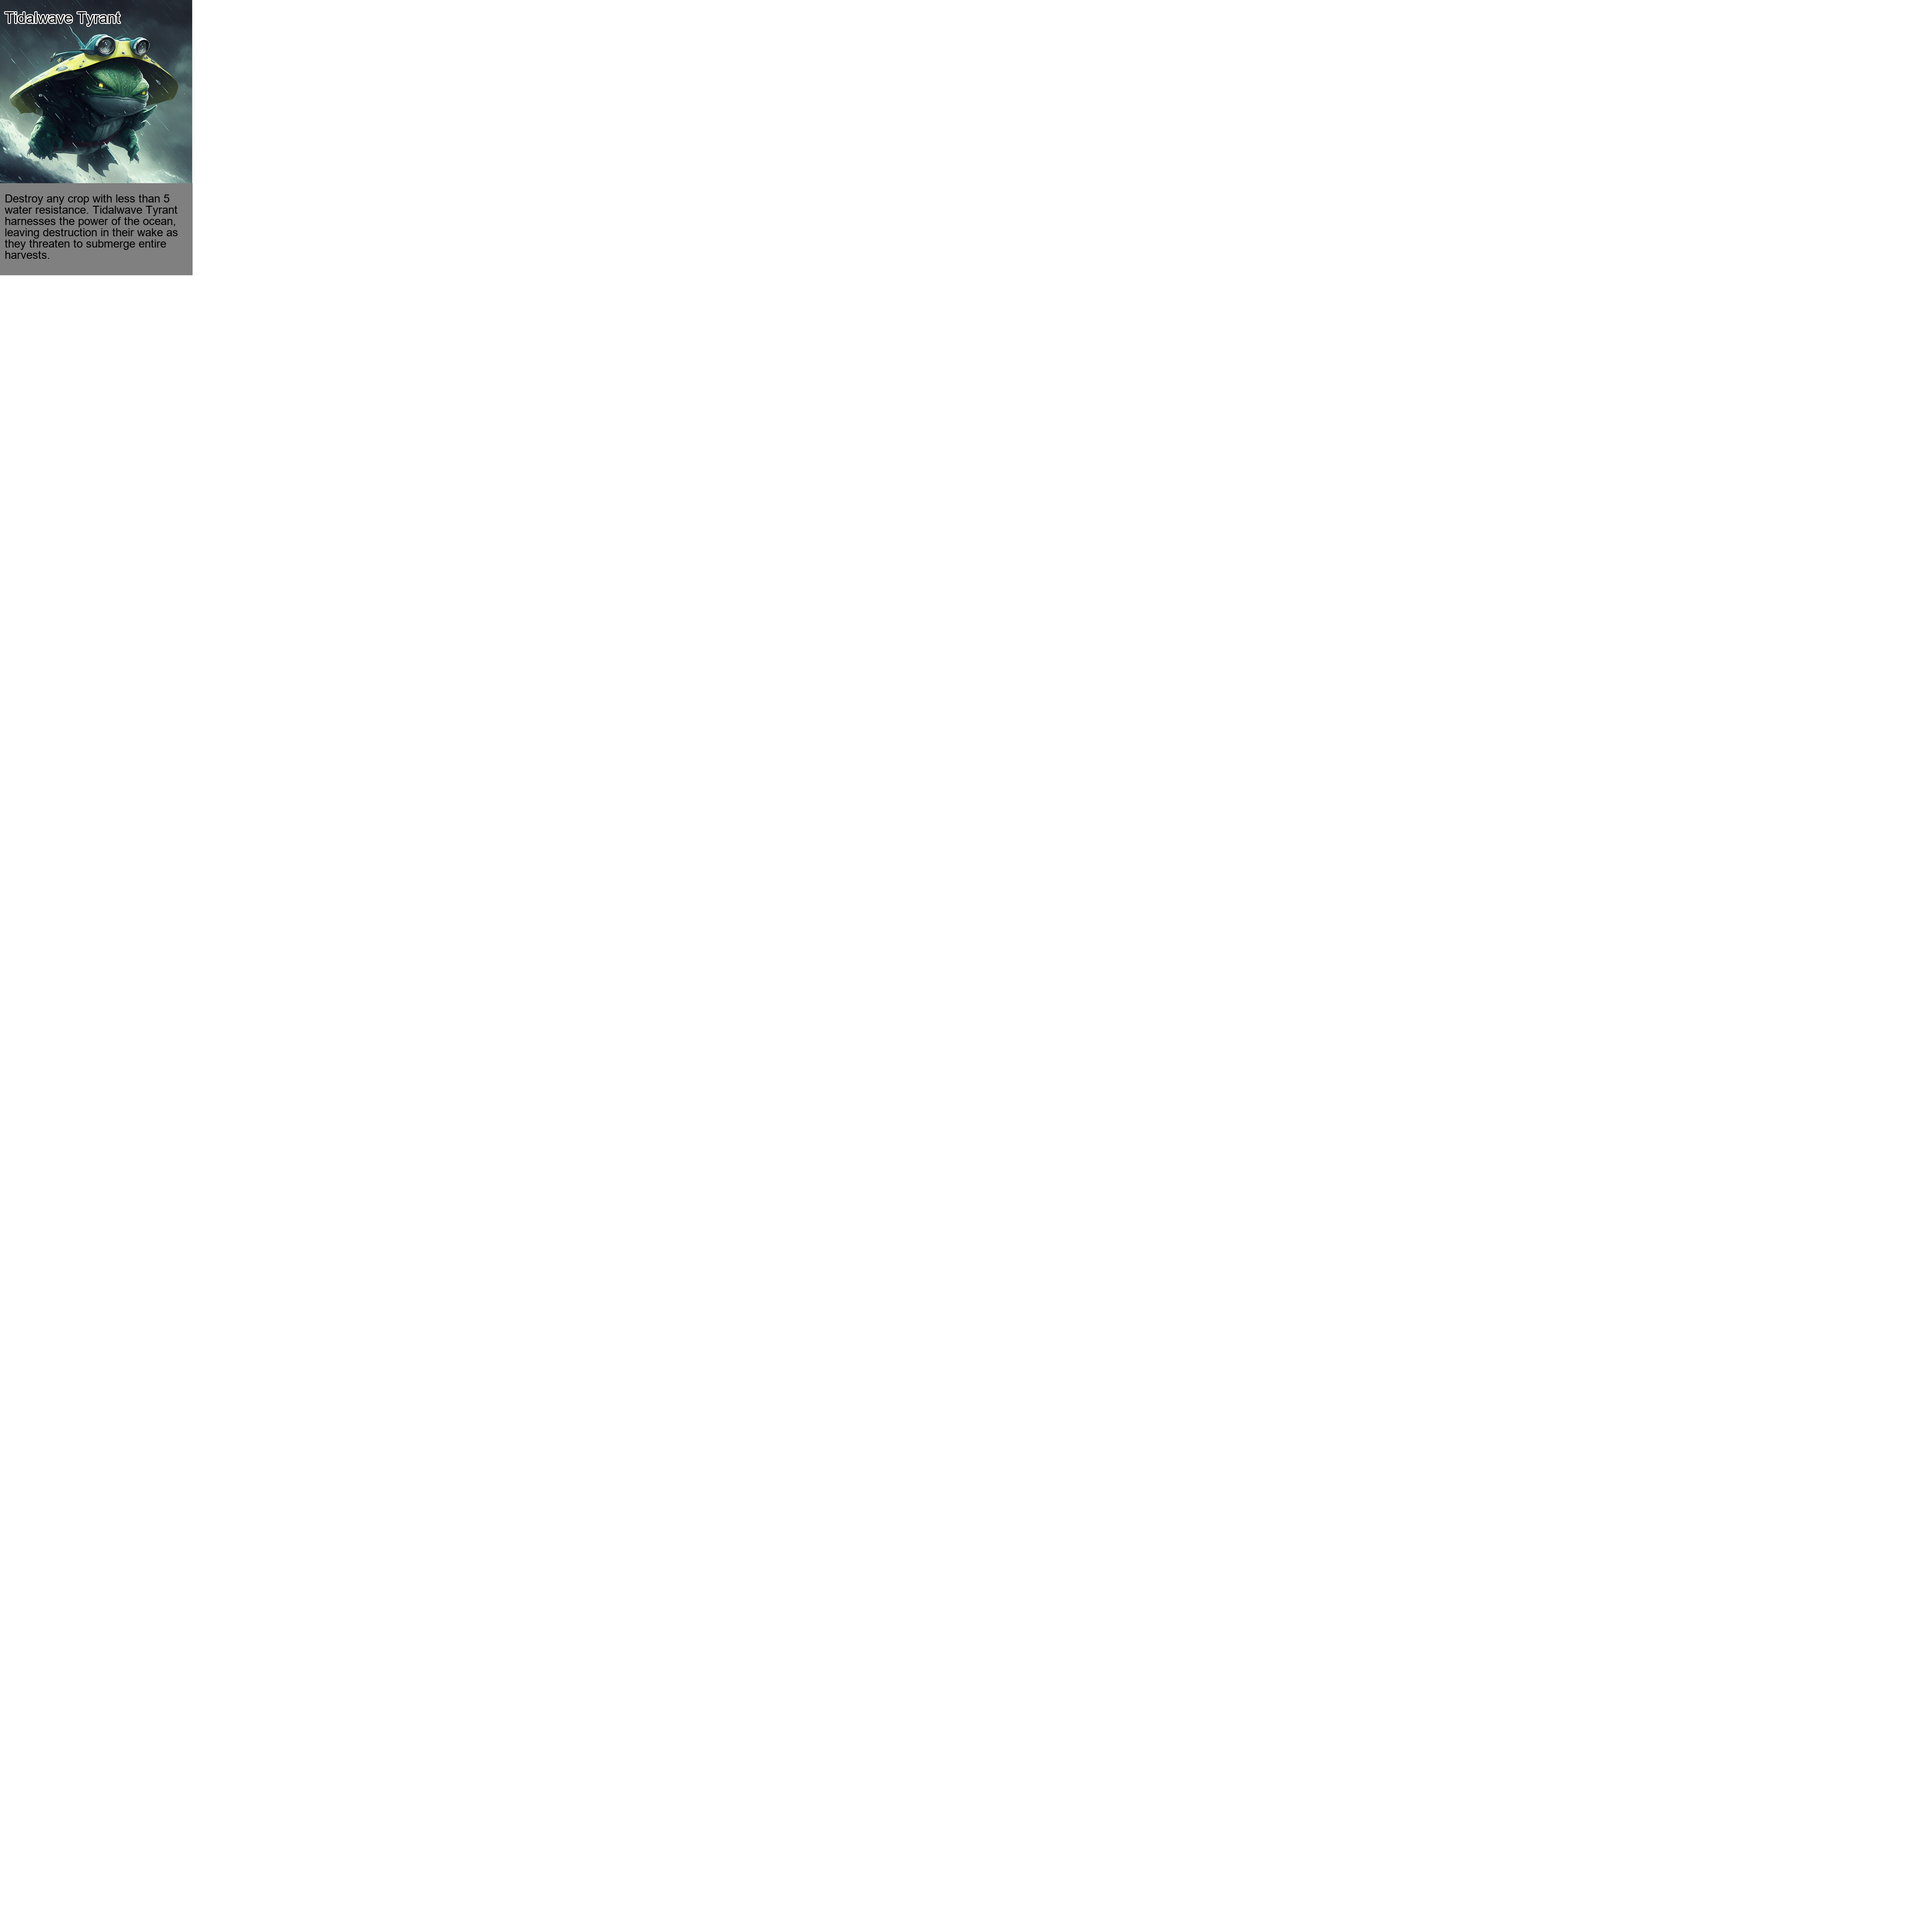
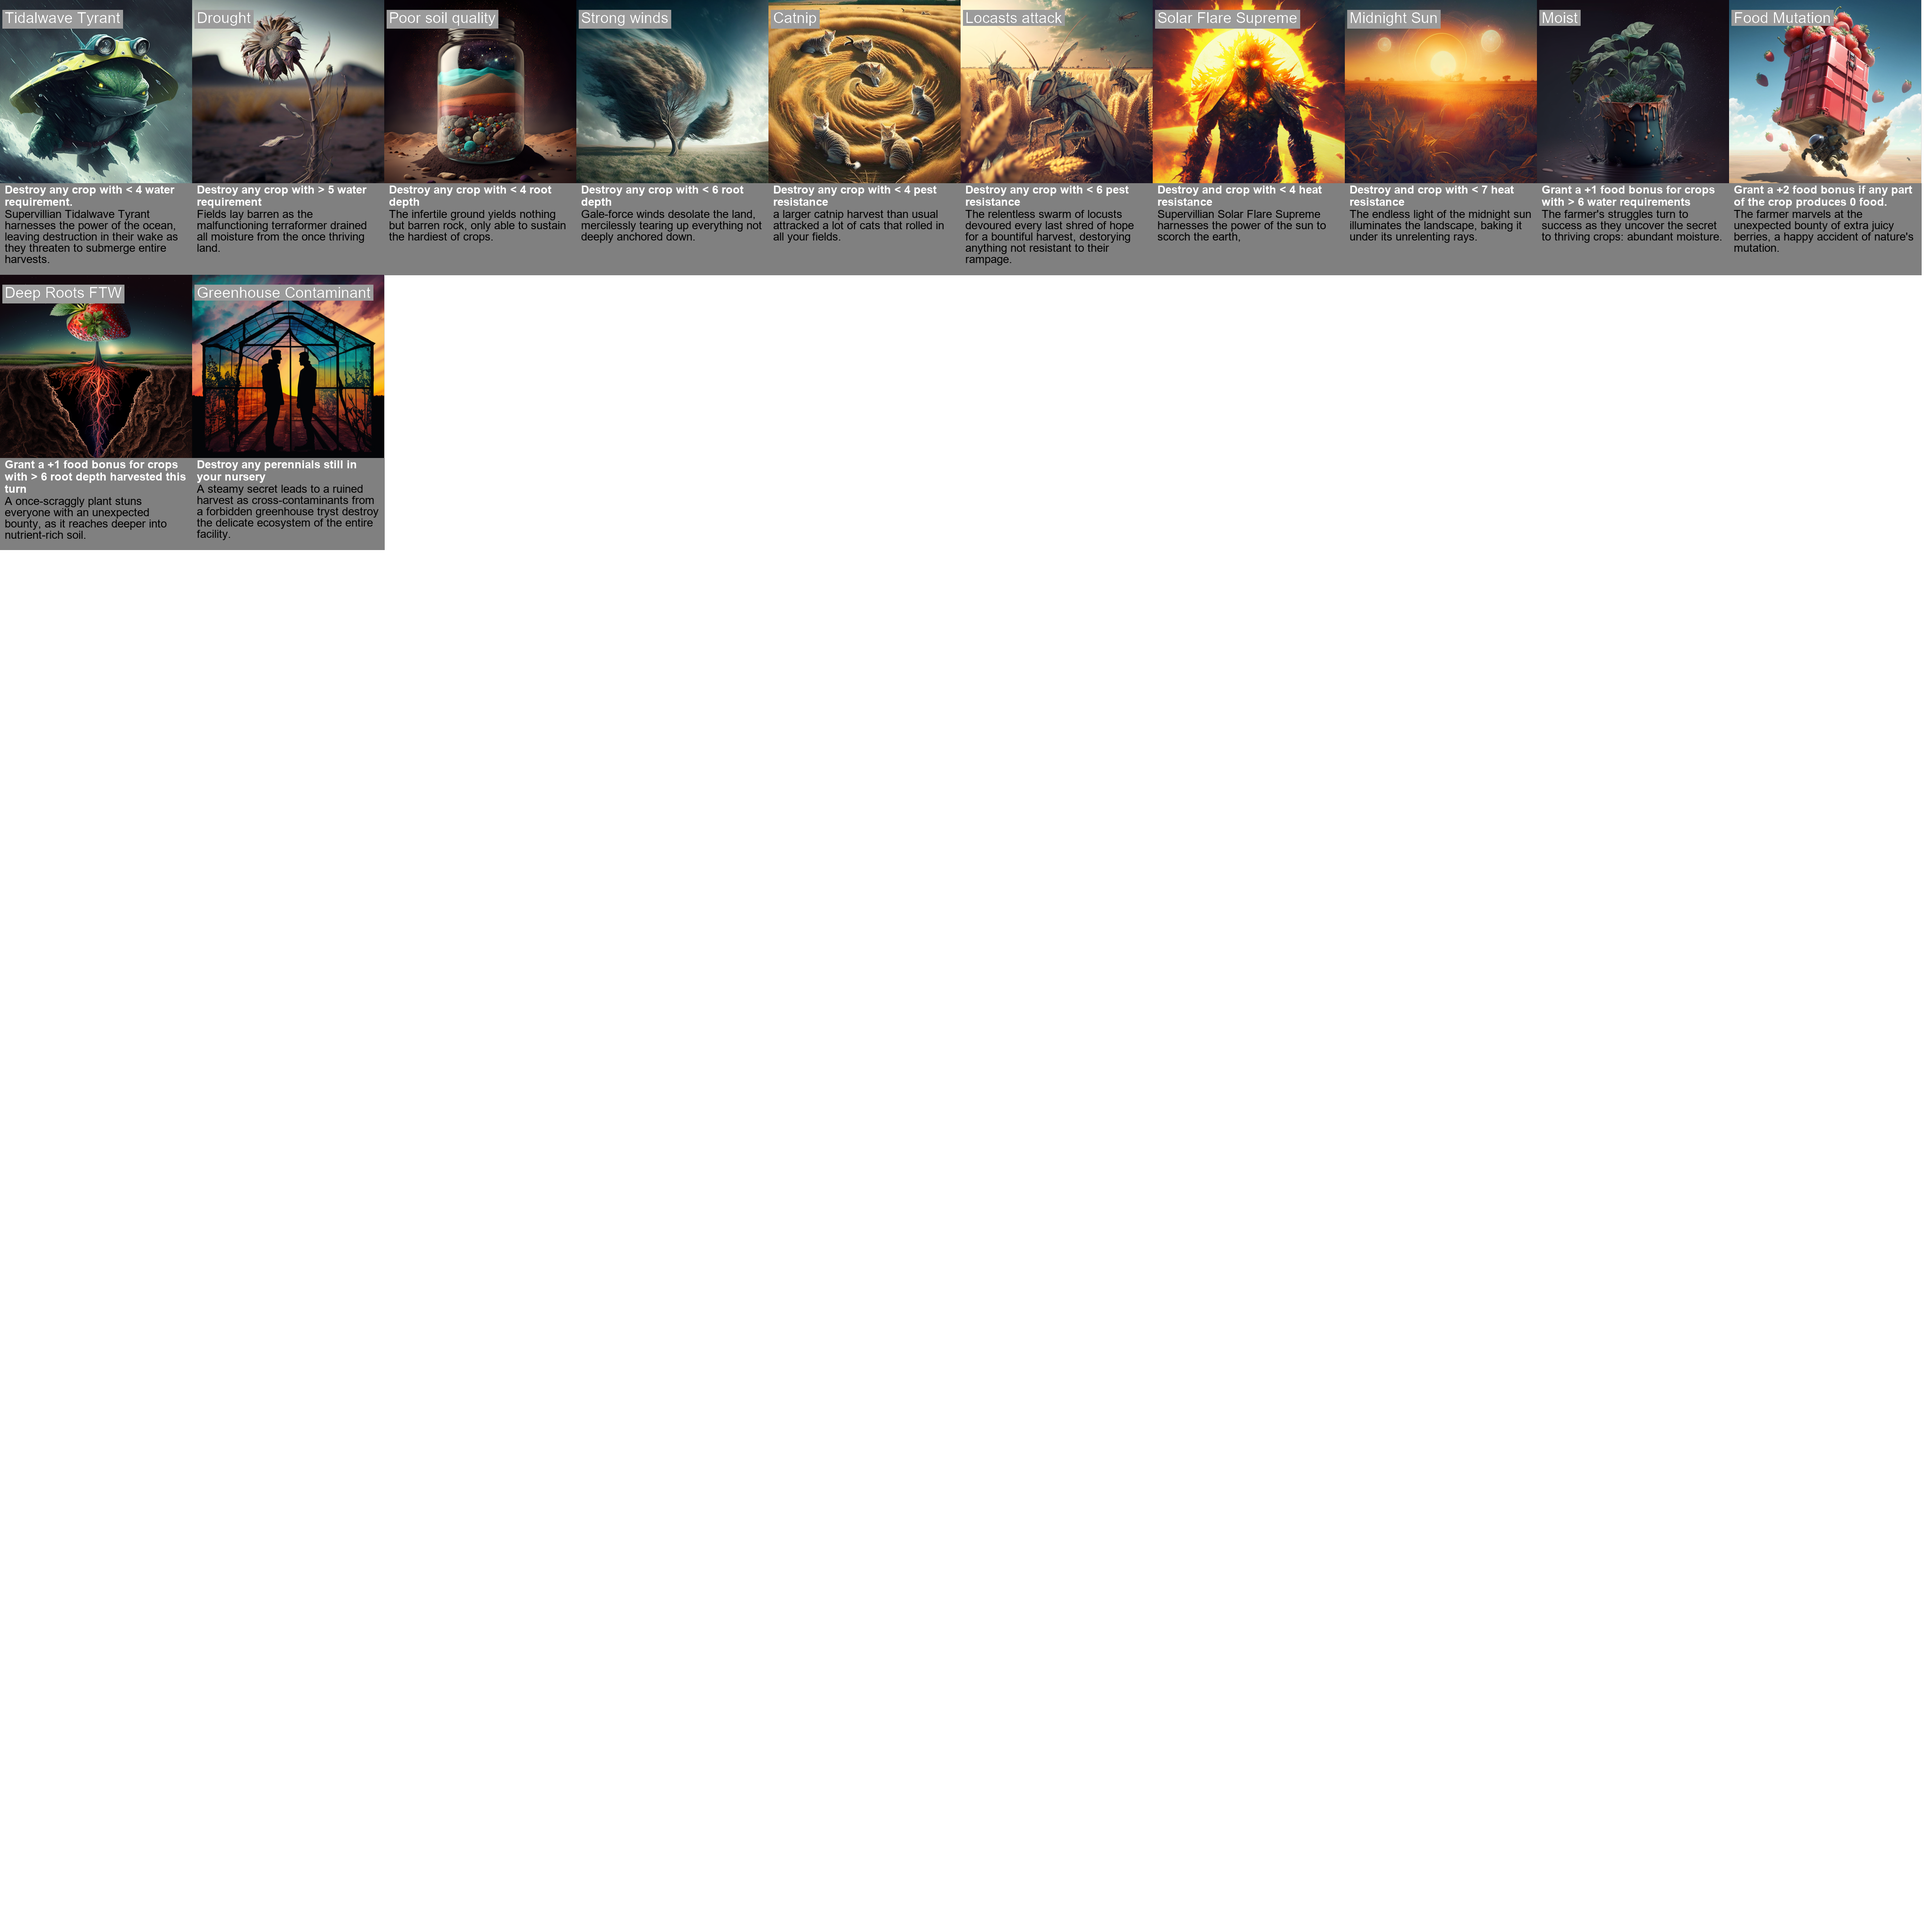
add content for event cards

Changed region(s): [[0.0, 0.0, 1.0, 0.3125], [0.0, 0.0, 0.0625, 0.0312]]

diff --git a/event_deck.py b/event_deck.py
@@ -13,7 +13,8 @@ def wrap_text(text, width, font):
             text_line = []
             continue
         text_line.append(word)
-        w, h = font.getsize(' '.join(text_line))
+        #w, h = font.getsize(' '.join(text_line))
+        w = font.getlength(' '.join(text_line))
         if w > width:
             text_line.pop()
             text_lines.append(' '.join(text_line))
@@ -35,7 +36,7 @@ cards_per_col = 7
 card_w_px = int(img_width_px/cards_per_row)
 card_h_px = int(img_height_px/cards_per_col)
 # Create a blank image with a white background
-img = Image.new("RGB", (img_width_px, img_height_px), color="white")
+img = Image.new("RGBA", (img_width_px, img_height_px), color="white")
 
 # Create a drawing context for the image
 draw = ImageDraw.Draw(img)
@@ -77,7 +78,13 @@ for i, row in enumerate(data):
     overlay_color = "gray"
     draw.rectangle(bottom_overlay, fill=overlay_color)
     # draw name
-    draw.text((xy_pos[0] + text_col_buffer_px, xy_pos[1] + 20), row["name"], font=name_font, fill="black",stroke_fill="white",stroke_width=2)
+    name_buffer_x = 5
+    name_buffer_y = 5
+    name_position = (xy_pos[0] + text_col_buffer_px, xy_pos[1] + 20)
+    bbox = draw.textbbox(name_position, row["name"], font=name_font)
+    # the bounding box is really tight, so add a buffer around each size.
+    draw.rectangle([bbox[0] - name_buffer_x,bbox[1] - name_buffer_y,bbox[2] + name_buffer_x,bbox[3]+name_buffer_y], fill=(0, 0, 0, 100))
+    draw.text(name_position, row["name"], font=name_font, fill="white",stroke_fill="white",stroke_width=0)
     #draw flavor text
     y_text = bottom_overlay[0][1]
     wrap_width_px = stat_overlay_size[0] - (text_col_buffer_px * 2)
